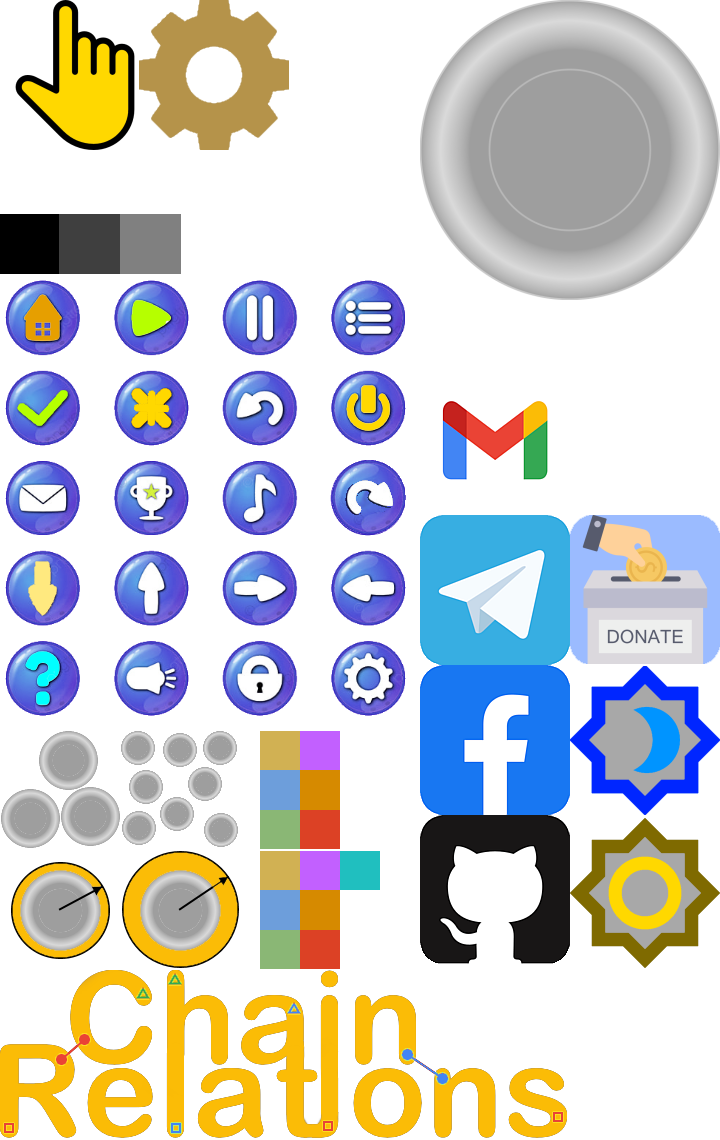
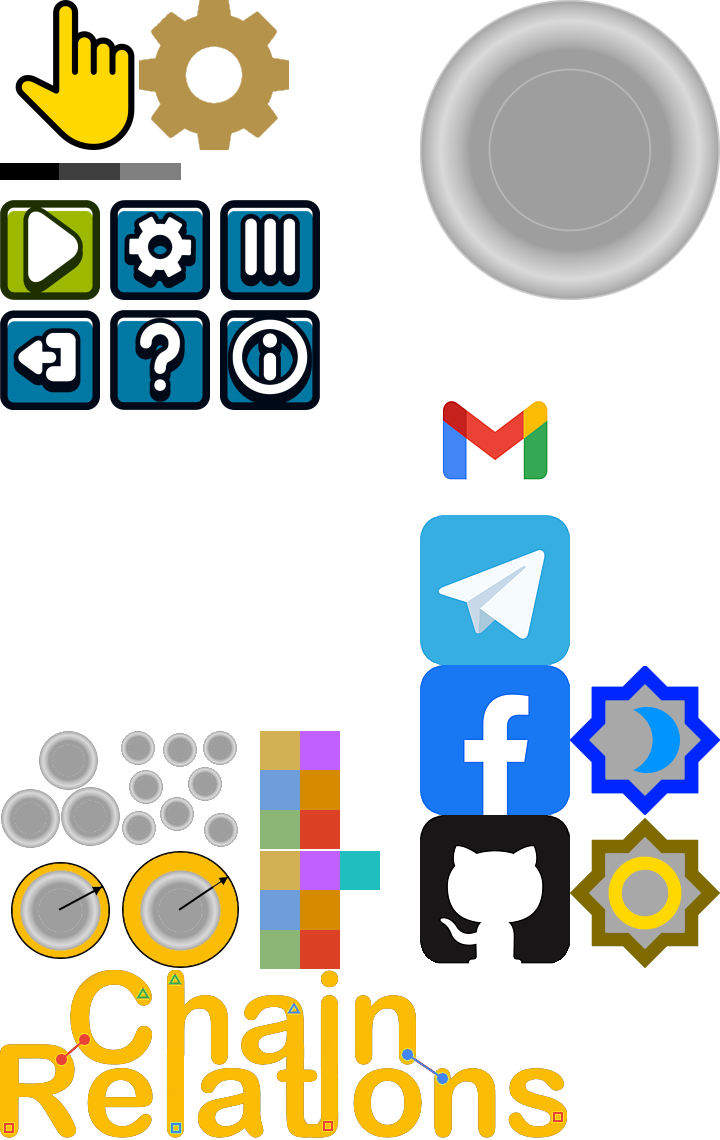
Button graphics updated. Release 1.1

Changed region(s): [[0.0, 0.1228, 0.5806, 0.6447], [0.7944, 0.4298, 1.0, 0.5833]]

diff --git a/core/src/com/andrzejn/chainrelations/Context.kt b/core/src/com/andrzejn/chainrelations/Context.kt
@@ -147,12 +147,14 @@ class Context(
     private val white: TextureRegion get() = texture("white")
     val ball: TextureRegion get() = texture("ball")
     val logo: TextureRegion get() = texture("logo")
-    val home: TextureRegion get() = texture("home")
+
     val play: TextureRegion get() = texture("play")
-    val exit: TextureRegion get() = texture("poweroff")
-    val options: TextureRegion get() = texture("options")
+    val settings: TextureRegion get() = texture("settings")
+    val exit: TextureRegion get() = texture("exit")
     val help: TextureRegion get() = texture("help")
-    val hit: TextureRegion get() = texture("cancel")
+    val info: TextureRegion get() = texture("info")
+    val hit: TextureRegion get() = texture("hit")
+
     val hand: TextureRegion get() = texture("hand")
     val gear: TextureRegion get() = texture("gear")
     val icongmail: TextureRegion get() = texture("icongmail")

diff --git a/core/src/com/andrzejn/chainrelations/GameScreen.kt b/core/src/com/andrzejn/chainrelations/GameScreen.kt
@@ -32,7 +32,7 @@ class GameScreen(
 
     private val ball = Sprite(ctx.ball)
     private val play = Sprite(ctx.play).also { it.setAlpha(0.8f) }
-    private val home = Sprite(ctx.home).also { it.setAlpha(0.8f) }
+    private val home = Sprite(ctx.settings).also { it.setAlpha(0.8f) }
     private val help = Sprite(ctx.help).also { it.setAlpha(0.8f) }
     private val exit = Sprite(ctx.exit).also { it.setAlpha(0.8f) }
     private val hit = Sprite(ctx.hit).also { it.setAlpha(0.8f) }

diff --git a/core/src/com/andrzejn/chainrelations/HomeScreen.kt b/core/src/com/andrzejn/chainrelations/HomeScreen.kt
@@ -49,7 +49,7 @@ class HomeScreen(
     private val logo = Sprite(ctx.logo)
     private val play = Sprite(ctx.play)
     private val exit = Sprite(ctx.exit)
-    private val options = Sprite(ctx.options)
+    private val options = Sprite(ctx.info)
     private val gear = Sprite(ctx.gear)
     private val darktheme = Sprite(ctx.darktheme)
     private val lighttheme = Sprite(ctx.lighttheme)

diff --git a/core/src/com/andrzejn/chainrelations/CreditsScreen.kt b/core/src/com/andrzejn/chainrelations/CreditsScreen.kt
@@ -50,7 +50,7 @@ class CreditsScreen(
     private val icontelegram = Sprite(ctx.icontelegram)
     private val icongithub = Sprite(ctx.icongithub)
     private val exit = Sprite(ctx.exit)
-    private val home = Sprite(ctx.home)
+    private val home = Sprite(ctx.settings)
 
     /**
      * Invoked on each screen resize
